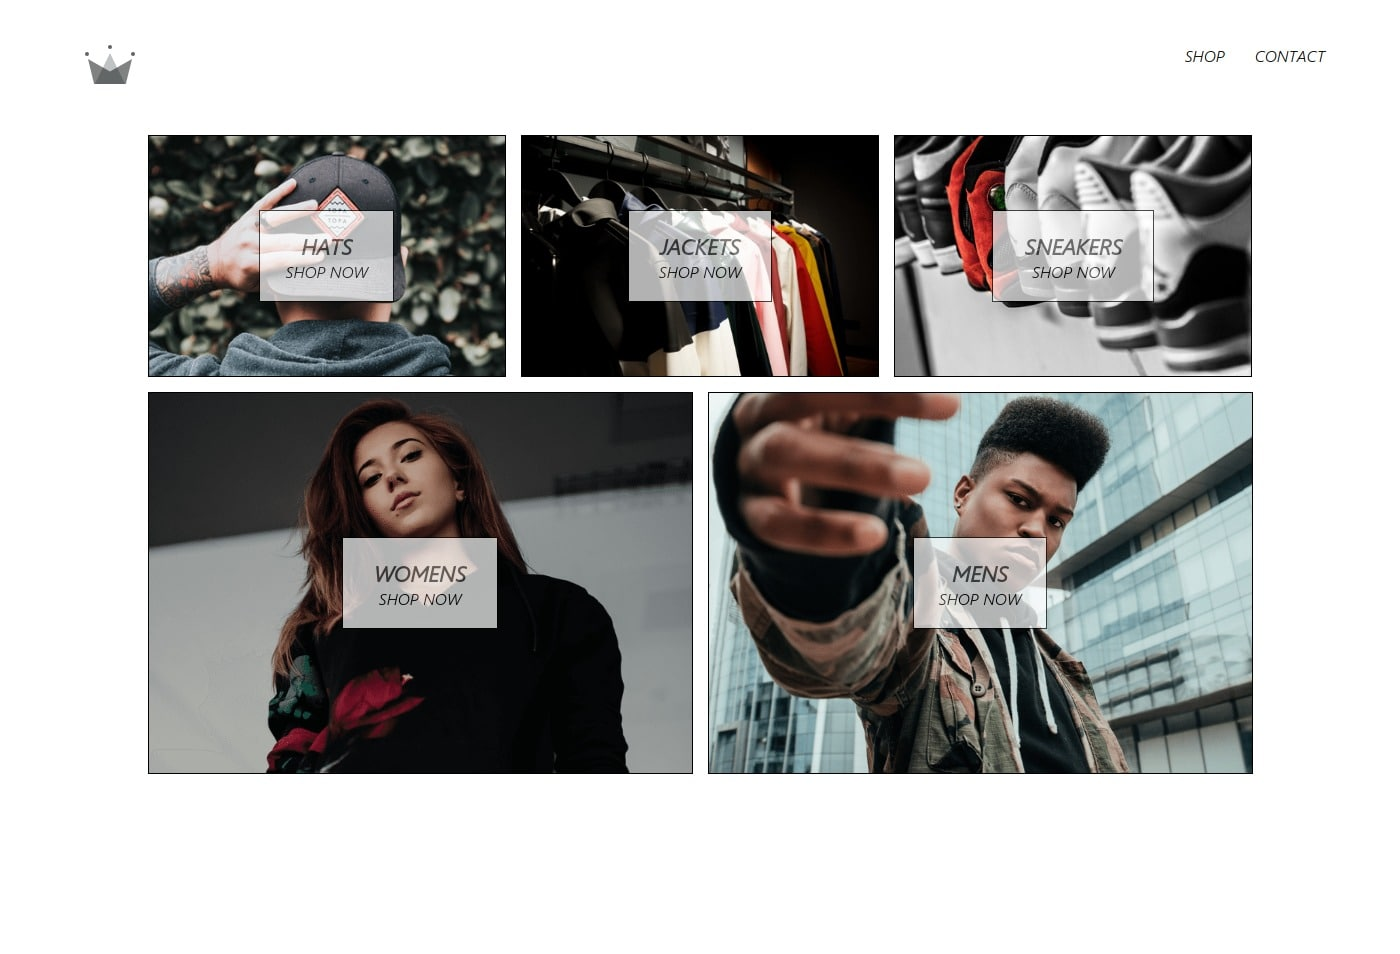
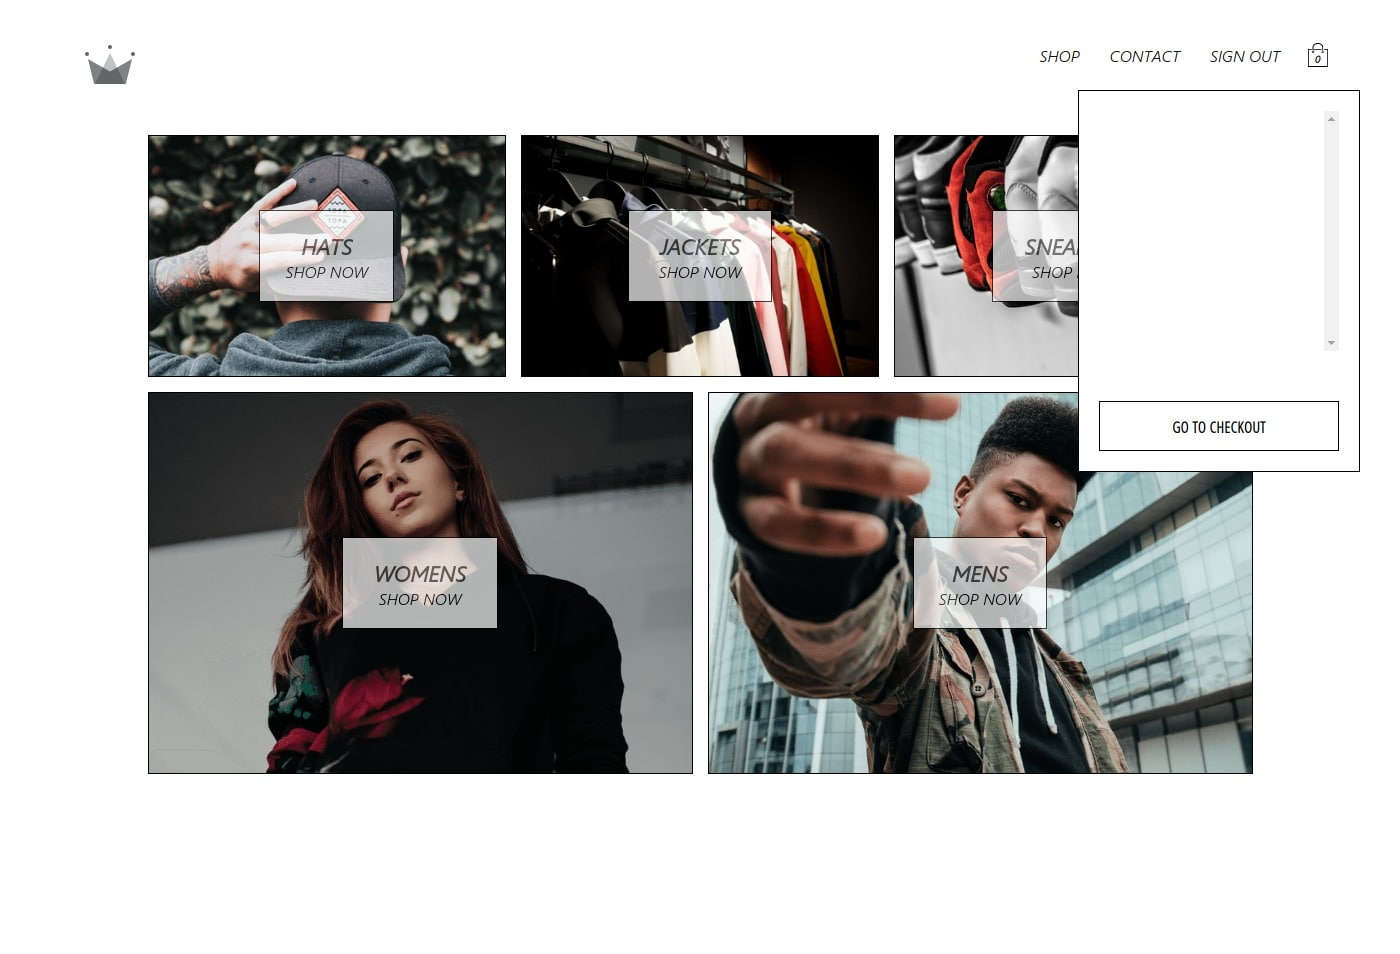
add: dropdown mini-menu to top

Changed region(s): [[0.7679, 0.1216, 0.9214, 0.5168], [0.86, 0.0304, 0.9521, 0.0608], [0.7986, 0.0304, 0.8293, 0.0608]]

diff --git a/src/components/header/header.component.jsx b/src/components/header/header.component.jsx
@@ -4,12 +4,15 @@ import { Link } from 'react-router-dom';
 
 import { auth } from "firebase/firebase.utils";
 
+import CartIcon from "components/cart-icon/cart-icon.component";
+import CartDropdown from "components/cart-dropdown/cart-dropdown.component";
+
 import { ReactComponent as Logo } from 'assets/crown.svg';
 
 import './header.styles.scss';
 
 
-const Header = ({ currentUser }) => {
+const Header = ({ currentUser, hidden }) => {
   const handleSignOutClick = () => auth.signOut();
   
   return (
@@ -30,14 +33,19 @@ const Header = ({ currentUser }) => {
             <Link className='option' to='/signin'>SIGN IN</Link>
           )
         }
+  
+        <CartIcon />
       </div>
+      {/* show/hide dropdown top mini-menu */}
+      { hidden ? null : <CartDropdown /> }
     </div>
   );
 };
 
 
-const mapStateToProps = state => ({
-  currentUser: state.user.currentUser
+const mapStateToProps = ({ user: { currentUser }, cart: { hidden } }) => ({
+  currentUser,
+  hidden
 });
 
 

diff --git a/src/components/cart-icon/cart-icon.component.jsx b/src/components/cart-icon/cart-icon.component.jsx
@@ -1,0 +1,24 @@
+import React from 'react';
+import { connect } from 'react-redux';
+
+import { toggleCartHidden } from 'store/cart/cart.actions';
+
+import { ReactComponent as ShoppingIcon } from 'assets/shopping-bag.svg';
+
+import './cart-icon.styles.scss';
+
+
+const CartIcon = ({ toggleCartHidden }) => (
+  <div className='cart-icon' onClick={ toggleCartHidden }>
+    <ShoppingIcon className='shopping-icon' />
+    <span className='item-count'>0</span>
+  </div>
+);
+
+
+const mapDispatchToProps = dispatch => ({
+  toggleCartHidden: () => dispatch(toggleCartHidden())
+});
+
+
+export default connect(null, mapDispatchToProps)(CartIcon);

diff --git a/src/components/cart-dropdown/cart-dropdown.styles.scss b/src/components/cart-dropdown/cart-dropdown.styles.scss
@@ -1,0 +1,25 @@
+.cart-dropdown {
+  position: absolute;
+  width: 240px;
+  height: 340px;
+  display: flex;
+  flex-direction: column;
+  padding: 20px;
+  border: 1px solid black;
+  background-color: white;
+  top: 90px;
+  right: 40px;
+  z-index: 5;
+
+  .cart-items {
+    display: flex;
+    flex-direction: column;
+    height: 240px;
+    overflow: scroll;
+    overflow-x: hidden;
+  }
+
+  button {
+    margin-top: auto;
+  }
+}

diff --git a/src/store/cart/cart.reducer.js b/src/store/cart/cart.reducer.js
@@ -1,0 +1,19 @@
+import CartActionTypes from './cart.types';
+
+
+const InitialState = {
+  hidden: true
+};
+
+const cartReducer = (state = InitialState, action) => {
+  switch (action.type) {
+    case CartActionTypes.TOGGLE_CART_HIDDEN:
+      return { ...state, hidden: !state.hidden };
+      
+    default:
+      return state;
+  }
+};
+
+
+export default cartReducer;

diff --git a/src/components/cart-dropdown/cart-dropdown.component.jsx b/src/components/cart-dropdown/cart-dropdown.component.jsx
@@ -1,0 +1,16 @@
+import React from 'react';
+
+import CustomButton from 'components/custom-button/custom-button.component';
+
+import './cart-dropdown.styles.scss';
+
+
+const CartDropdown = () => (
+  <div className='cart-dropdown'>
+    <div className='cart-items' />
+    <CustomButton>GO TO CHECKOUT</CustomButton>
+  </div>
+);
+
+
+export default CartDropdown;

diff --git a/src/components/cart-icon/cart-icon.styles.scss b/src/components/cart-icon/cart-icon.styles.scss
@@ -1,0 +1,21 @@
+.cart-icon {
+  width: 45px;
+  height: 45px;
+  position: relative;
+  display: flex;
+  align-items: center;
+  justify-content: center;
+  cursor: pointer;
+
+  .shopping-icon {
+    width: 24px;
+    height: 24px;
+  }
+
+  .item-count {
+    position: absolute;
+    font-size: 10px;
+    font-weight: bold;
+    bottom: 12px;
+  }
+}

diff --git a/src/store/cart/cart.types.js b/src/store/cart/cart.types.js
@@ -1,0 +1,10 @@
+const CartActionTypes = {
+  TOGGLE_CART_HIDDEN: 'TOGGLE_CART_HIDDEN',
+  ADD_ITEM: 'ADD_ITEM',
+  REMOVE_ITEM: 'REMOVE_ITEM',
+  CLEAR_ITEM_FROM_CART: 'CLEAR_ITEM_FROM_CART',
+  CLEAR_CART: 'CLEAR_CART'
+};
+
+
+export default CartActionTypes;

diff --git a/src/store/root.reducer.js b/src/store/root.reducer.js
@@ -1,8 +1,10 @@
 import { combineReducers } from "redux";
 
 import userReducer from "./user/user.reducer";
+import cartReducer from "./cart/cart.reducer";
 
 
 export default combineReducers({
-    user: userReducer
+	user: userReducer,
+	cart: cartReducer
 })

diff --git a/src/store/cart/cart.actions.js b/src/store/cart/cart.actions.js
@@ -1,0 +1,6 @@
+import CartActionTypes from './cart.types';
+
+
+export const toggleCartHidden = () => ({
+  type: CartActionTypes.TOGGLE_CART_HIDDEN
+});
